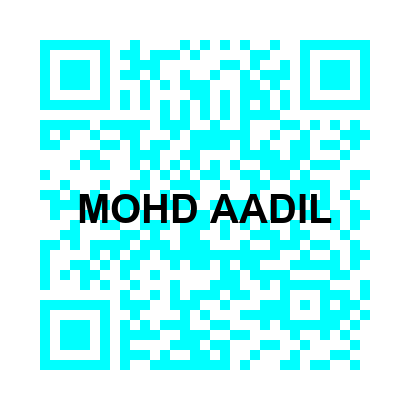
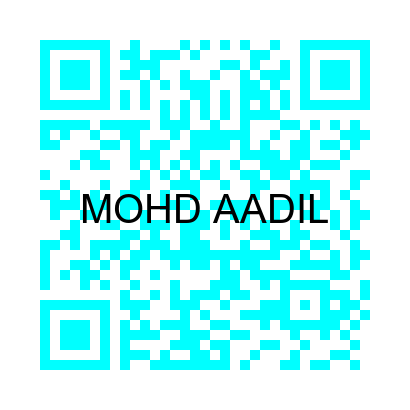
updated

Changed region(s): [[0.1756, 0.4683, 0.8195, 0.5561]]

diff --git a/qr_code_generator/main.py b/qr_code_generator/main.py
@@ -20,7 +20,7 @@ img = qr.make_image(fill_color=fill_color, back_color=back_color).convert("RGB")
 draw = ImageDraw.Draw(img)
 
 try:
-    font = ImageFont.truetype("arialbd.ttf", 40)
+    font = ImageFont.truetype("arial.ttf", 40)
 except IOError:
     font = ImageFont.load_default()
 
